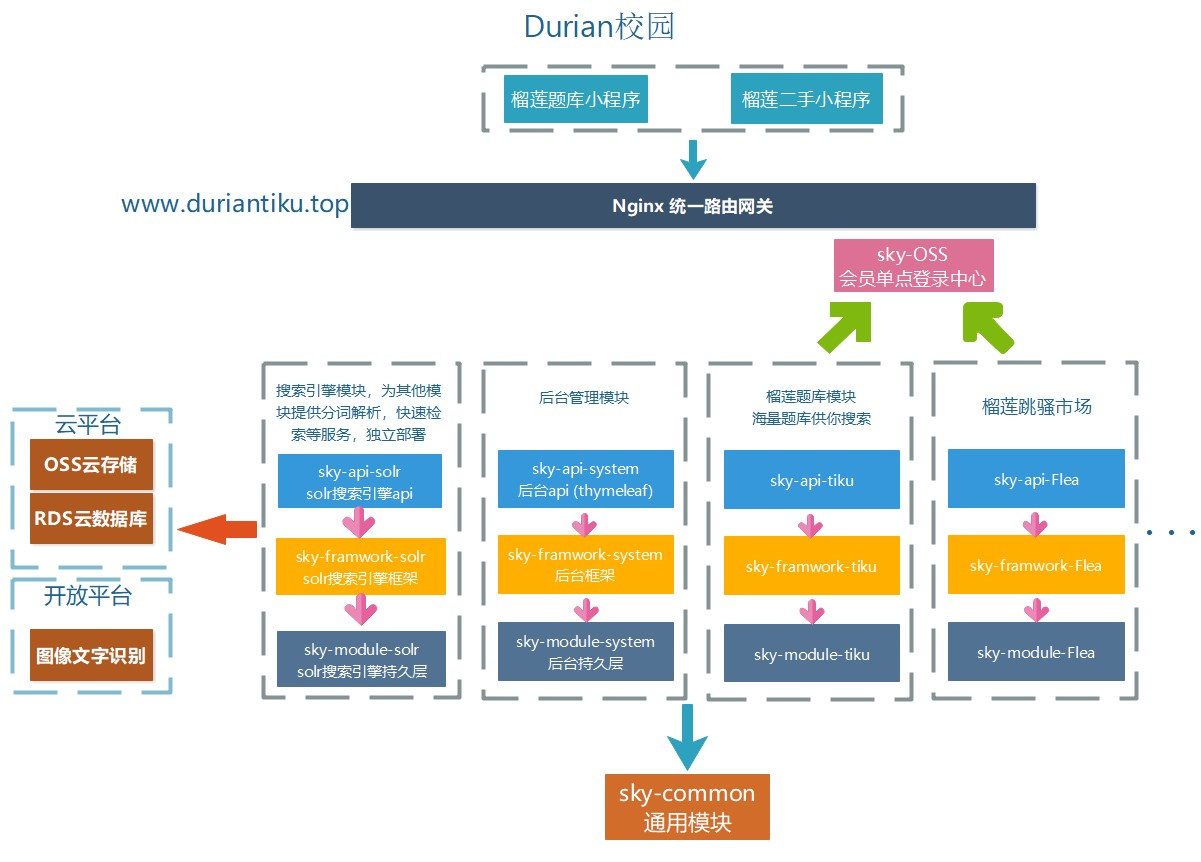
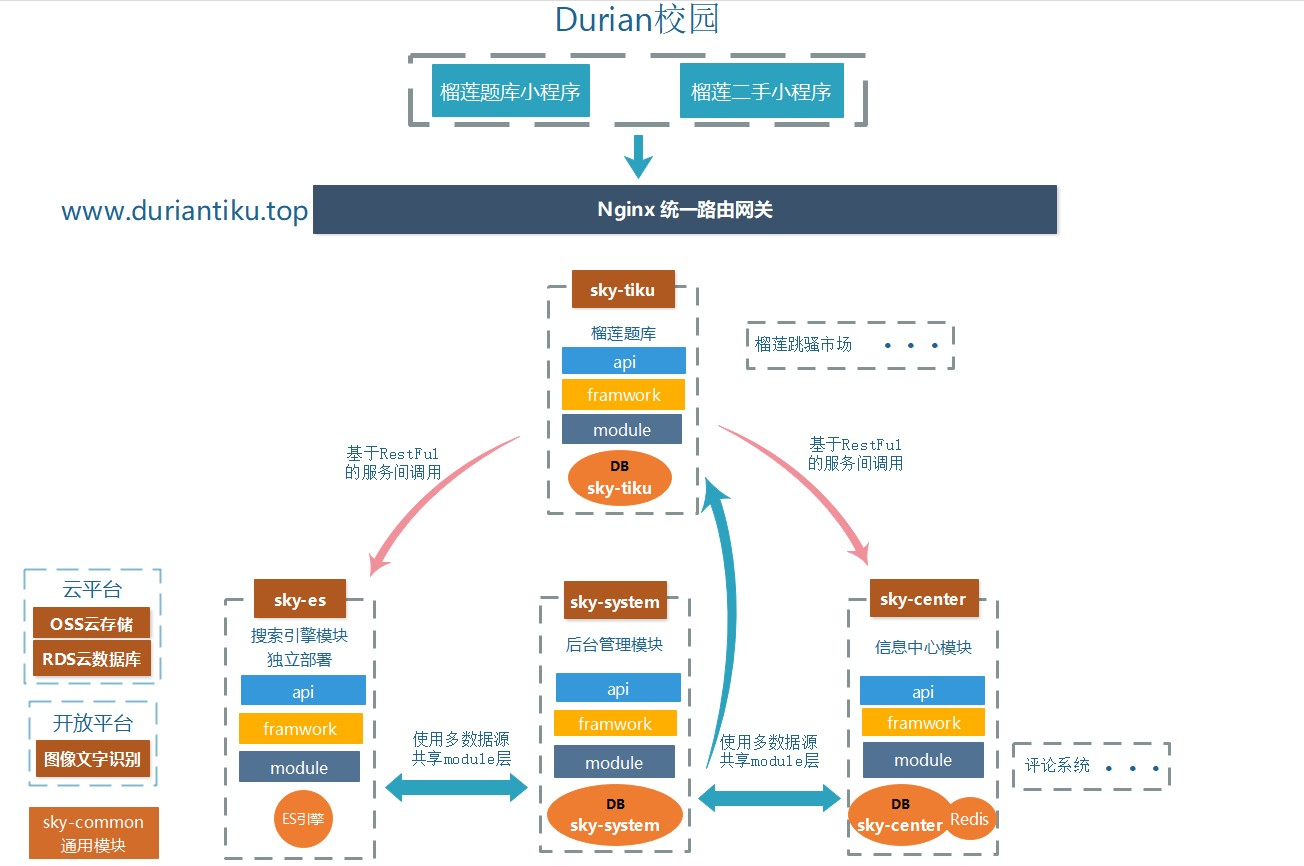
update README.md

diff --git a/README.md b/README.md
@@ -12,26 +12,29 @@
 
 ## 介绍 <img img align="center" src="doc/imgs/introduction.png"/>
 
- 榴莲校园，一个专注于Java技术的实践集合，致力于为校园提供一套便捷的技术服务。
- 
- 涉及后台管理，多级鉴权，单点登录，solr引擎全文检索，校园题库，校园二手（开发中），校园云盘等多种技术服务。搭建框架，化繁为简，提高你的开发效率，使您专注于业务逻辑的开发。
+ 榴莲校园，一个专注于Java技术的实践集合，致力于为校园提供一套便捷的技术服务平台。
+
+ 想法起于这段时间接手的几个校内应用，例如题库，信息发布，校内社交这类的应用。这些应用无一都需要管理一些基本的信息，例如会员，专业，课程等。又或者都需要一些常用的功能，例如评论，全文检索，后台管理等。慢慢发现，其实开发一个简单，低并发的校内应用，特别是在学习时，这些通用的功能其实占据了开发任务的很大一部分，十分冗余，然人很难专注与这个应用本身的业务。
+
+ 因此我想到了，做一个轻量级的校内应用平台，为在这个平台上开发的应用提供一些基本的服务，如搜索引擎服务，校内信息中心，评论系统等，化繁为简，提高你的开发效率，使您专注于业务逻辑的开发。
+
+ 平台的雏形已基本搭建，为演示效果，我使用一个题库小应用（榴莲题库）作为在此平台上开发的demo。
  
  本项目的后台管理模块是基于我的另一个开源项目<img img align="center" src="doc/imgs/sky-logo.png"/>[Sky](https://gitee.com/qiu-qian/sky.git)，除后台管理模块使用Thymeleaf渲染以外，其他模块皆为restful风格的api，使用微信小程序做的前后端分离。为了专注与业务逻辑，对于持久层的代码，我专为项目设计了与之适应的代码生成器<img img align="center" src="doc/imgs/orange-logo.png"/>[Orange](https://gitee.com/qiu-qian/Orange.git)，支持关联结构(非外键)的代码生成，使您的二次开发更加快速。
 
  详细信息，请参考项目开发文档：[Durian开发文档](https://gitee.com/qiu-qian/Durian/wikis/pages)
 
-
-<b>特别声明：本项目可用于学习或毕设，（如需商用，请联系我） ! ! !</b>
-
-后台演示地址：[https://qiu-qian.top](https://duriantiku.top:8085/)
-
-题库小程序演示地址： （域名备案中，请稍等）
+后台演示地址：[https://duriantiku.top](https://duriantiku.top:8085/)
 
 文档地址： [Durian开发文档](https://gitee.com/qiu-qian/Durian/wikis/pages?sort_id=2720449&doc_id=892234)
 
 后台仓库地址：[https://gitee.com/qiu-qian/Durian](https://gitee.com/qiu-qian/Durian)
 
-小程序仓库地址：[https://gitee.com/qiu-qian/durian-mini](https://gitee.com/qiu-qian/durian-mini)
+榴莲题库小程序仓库地址：[https://gitee.com/qiu-qian/durian-mini](https://gitee.com/qiu-qian/durian-mini) 
+
+(精力有限，暂时只提供了题库模块的后台接口，还未实现全部的小程序页面，欢迎爱好前端，爱好开源的小伙伴来协助我完成这个demo)
+
+<b>特别声明：本项目可用于学习或毕设，（如需商用，请联系我） ! ! !</b>
 
 ## 预览 <img img align="center" src="doc/imgs/preview.png" width=25/>
 
@@ -135,20 +138,27 @@ java -jar sky-api-tiku/target/sky-api-tiku.jar
 
 ## 项目结构 <img img align="center" src="doc/imgs/structure.png"/>
 
-项目采用模块化的设计，遵循低耦合高内聚的设计思想，各个模块可单独部署，一个独立的项目模块（例如榴莲题库模块）是由如下三个子模块组成：
+项目采用模块化的设计，遵循低耦合高内聚的设计思想，各个模块可单独部署，一个独立的项目模块（以信息中心模块举例）是由如下三个（或四个）子模块组成：
 
 <table align="center">
 <tr>
-<td>sky-module-tiku</td>
+<td>sky-center-module</td>
 <td>持久层和Service接口，此处代码可完全由生成器生成</td>
 </tr>
 <tr>
-<td>sky-framework-tiku</td>
+<td>sky-center-framework</td>
 <td>相关框架，例如spring，mybatis等配置</td>
-</tr
-><tr>
-<td>sky-api-tiku</td>
+</tr>
+<tr>
+<td>sky-center-api</td>
 <td>对外提供api服务</td>
+</tr>
+<tr>
+<td>sky-center-inner</td>
+<td>
+对内提供服务模块
+
+(由于基于RPC的微服务通信框架较为庞大，之后再考虑此方案，目前使用RestFul实现服务间同通信）</td>
 </tr>
 </table>
 
@@ -159,7 +169,7 @@ java -jar sky-api-tiku/target/sky-api-tiku.jar
 ### Solr搜索模型
 
 <p align="center">
-<img align="center" src="doc/imgs/solr.png" width=900>
+<img align="center" src="doc/imgs/es.jpg" width=900>
 <p>
 
 ## 功能概览
